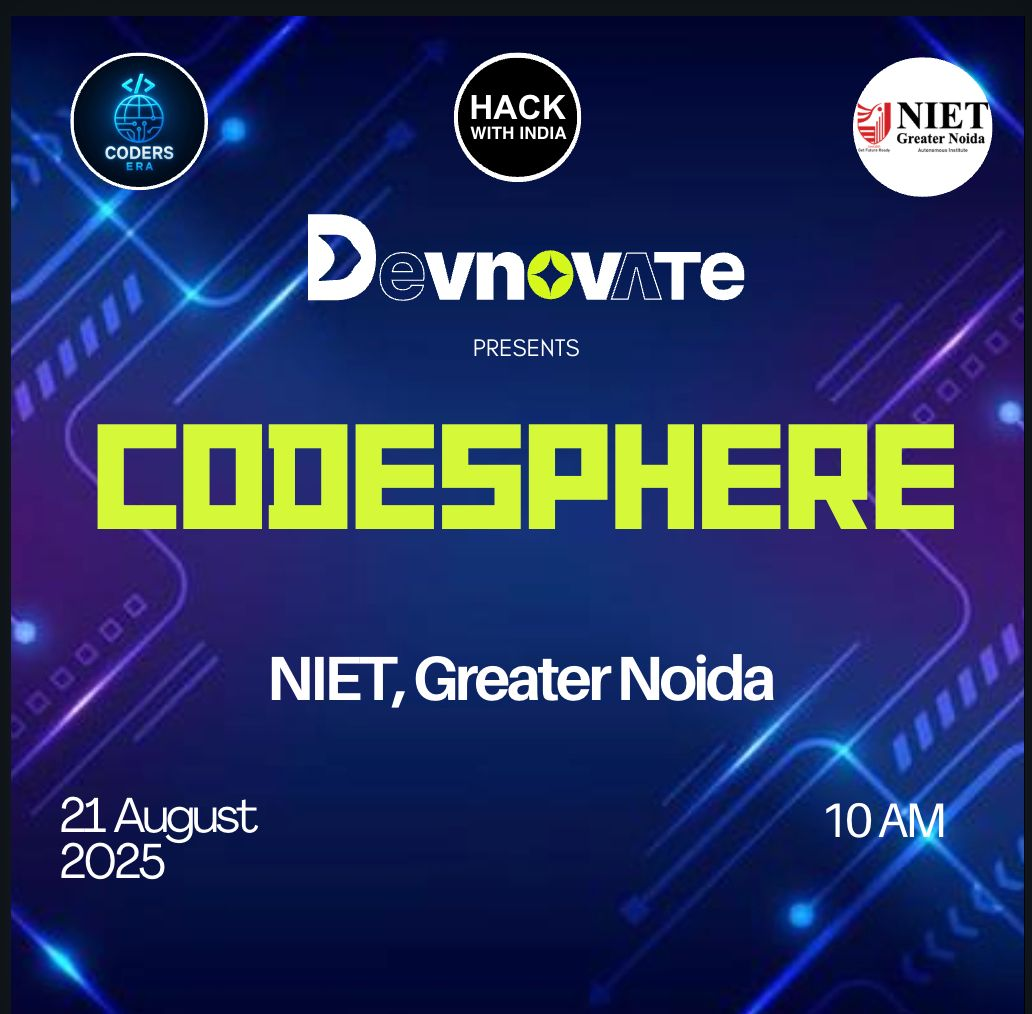
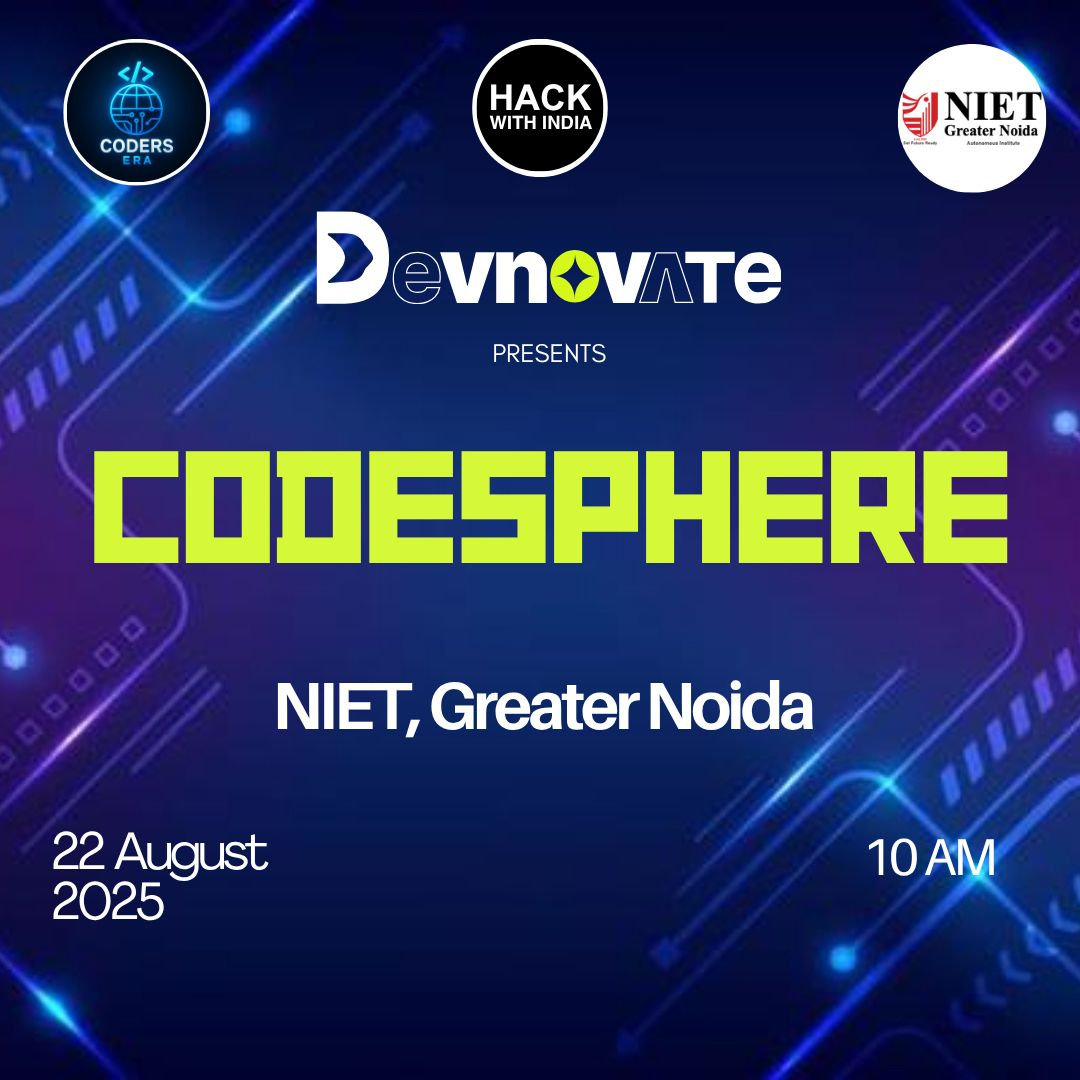
event page update

diff --git a/src/app/events/page.tsx b/src/app/events/page.tsx
@@ -16,18 +16,20 @@ type Event = {
   type: 'hackathon' | 'webinar' | 'workshop' | 'meetup';
   description: string;
   image: StaticImageData;
+  link: string;
 };
 
 const upcomingEvents: Event[] = [
   {
     id: 1,
     title: 'Codesphere',
-    date: 'August 21, 2025',
+    date: 'August 22, 2025',
     time: '10:00 AM',
     location: 'NIET, Greater noida',
     type: 'workshop',
-    description: 'An intensive coding workshop designed to enhance your programming skills and connect with fellow developers.',
-    image: codesphere
+    description: 'CodeSphere 2025 – a 6-hour speaker session that brings together top minds from the tech world!',
+    image: codesphere,
+    link:'https://devnovate.co/event/codesphere-2025'
   },
 ];
 
@@ -93,7 +95,7 @@ export default function EventsPage() {
           </motion.div>
 
           {/* Coming Soon Message */}
-          <motion.div
+          {/* <motion.div
             className="text-center mb-16"
             initial={{ opacity: 0, scale: 0.9 }}
             animate={{ opacity: 1, scale: 1 }}
@@ -103,7 +105,7 @@ export default function EventsPage() {
               Coming Soon
             </h1>
             <p className="text-gray-400 text-lg mt-4">Stay tuned for exciting events and workshops!</p>
-          </motion.div>
+          </motion.div> */}
 
           {/* Events Grid */}
           <div className="grid grid-cols-1 md:grid-cols-2 lg:grid-cols-3 gap-8 max-w-7xl mx-auto">
@@ -178,13 +180,16 @@ export default function EventsPage() {
                   )}
                   
                   {/* Register Button */}
-                  <motion.button 
-                    className="w-full px-4 py-3 bg-gradient-to-r from-blue-600 to-blue-700 hover:from-blue-700 hover:to-blue-800 text-white font-semibold rounded-lg transition-all duration-300 shadow-lg hover:shadow-xl"
+                  <motion.a
+                    className="w-full px-4 py-3 bg-gradient-to-r from-blue-600 to-blue-700 hover:from-blue-700 hover:to-blue-800 text-white font-semibold rounded-lg transition-all duration-300 shadow-lg hover:shadow-xl text-center block"
                     whileHover={{ scale: 1.02 }}
                     whileTap={{ scale: 0.98 }}
+                    href={event.link}
+                    target="_blank" // optional: opens in new tab
+                    rel="noopener noreferrer" // optional: security best practice
                   >
                     Register Now
-                  </motion.button>
+                  </motion.a>
                 </div>
               </motion.div>
             ))}
